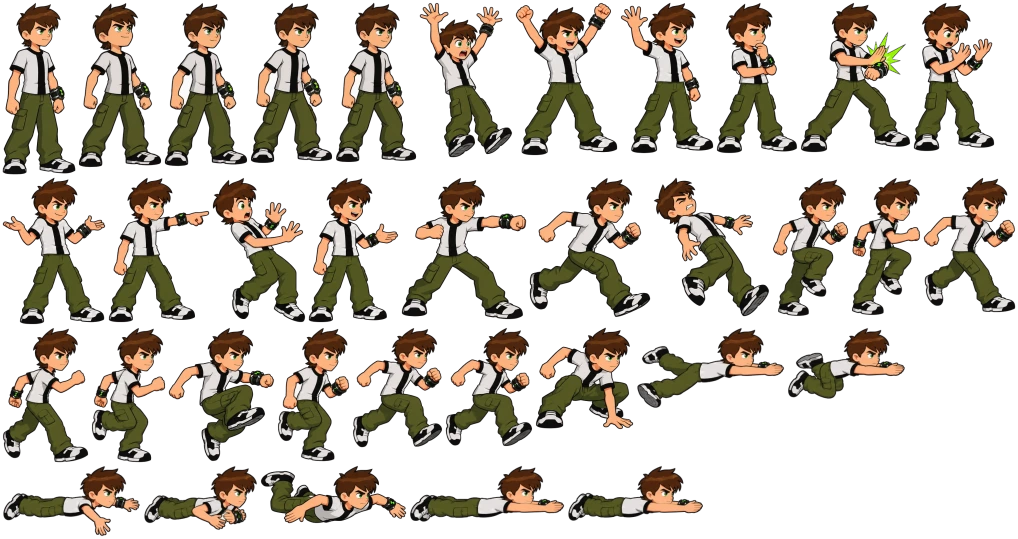
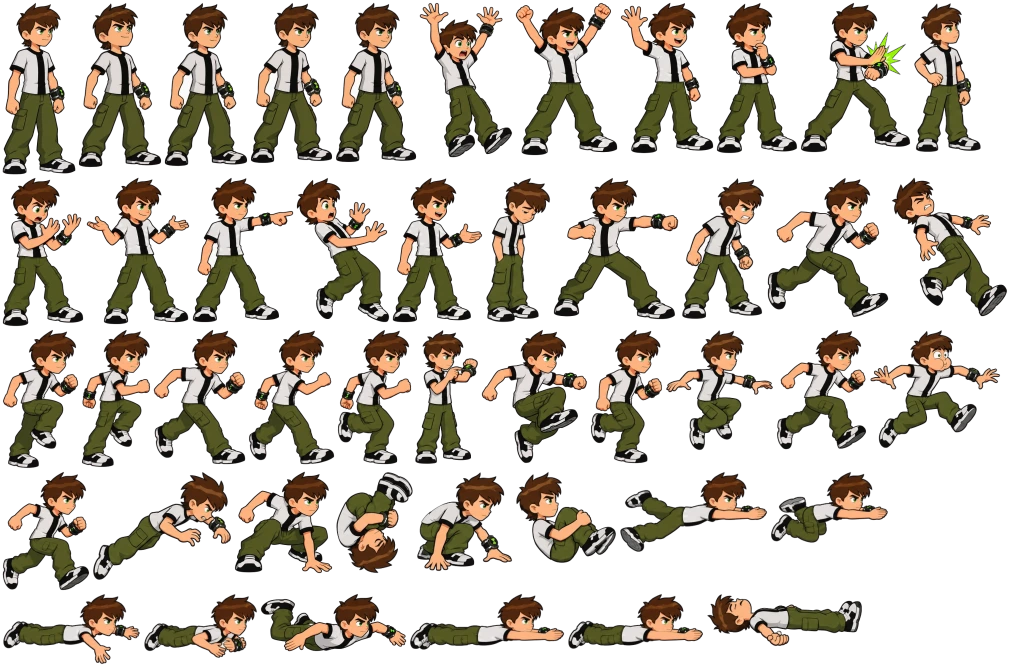
Ben's last sheet: the dodge roll, knocked flat, raising the Omnitrix, treading water, out of air, angry, sad, listening
Claude-Session: https://claude.ai/code/session_013Hp8tSqP8vgSn4FCMe6iiY

diff --git a/src/scenes/preload/cartoon/cutout/benFrames.ts b/src/scenes/preload/cartoon/cutout/benFrames.ts
@@ -7,44 +7,55 @@ export const BEN_FRAMES: CutoutMeta = {
   texel: 5,
   scale: 18.5,
   headScale: 1,
-  width: 1018,
-  height: 539,
+  width: 1010,
+  height: 667,
   joints: {},
   frames: {
+    "body:angry": {"x": 681, "y": 177, "w": 84, "h": 143, "px": 39.87, "py": 141.24},
     "body:cheer": {"x": 515, "y": 2, "w": 103, "h": 154, "px": 50.1, "py": 152.34},
-    "body:dash": {"x": 529, "y": 177, "w": 122, "h": 141, "px": 59.8, "py": 139.41},
-    "body:dive": {"x": 260, "y": 465, "w": 147, "h": 59, "px": 60.0, "py": 33.37},
+    "body:dash": {"x": 767, "y": 177, "w": 122, "h": 141, "px": 59.8, "py": 139.41},
+    "body:defeat": {"x": 706, "y": 593, "w": 157, "h": 54, "px": 89.73, "py": 52.7},
+    "body:dive": {"x": 260, "y": 593, "w": 147, "h": 59, "px": 60.0, "py": 33.37},
+    "body:drown": {"x": 869, "y": 329, "w": 132, "h": 120, "px": 55.01, "py": 118.48},
     "body:fall": {"x": 419, "y": 2, "w": 94, "h": 156, "px": 41.64, "py": 154.49},
-    "body:hands": {"x": 913, "y": 2, "w": 82, "h": 150, "px": 33.11, "py": 148.34},
-    "body:hurt": {"x": 653, "y": 177, "w": 117, "h": 140, "px": 51.54, "py": 138.8},
+    "body:hands": {"x": 2, "y": 177, "w": 82, "h": 150, "px": 33.11, "py": 148.34},
+    "body:hurt": {"x": 891, "y": 177, "w": 117, "h": 140, "px": 51.54, "py": 138.8},
     "body:idle0": {"x": 250, "y": 2, "w": 83, "h": 162, "px": 38.82, "py": 160.77},
     "body:idle1": {"x": 164, "y": 2, "w": 84, "h": 165, "px": 39.11, "py": 163.73},
     "body:idle2": {"x": 78, "y": 2, "w": 84, "h": 166, "px": 39.91, "py": 164.38},
     "body:idle3": {"x": 335, "y": 2, "w": 82, "h": 161, "px": 37.66, "py": 160.12},
-    "body:jump": {"x": 168, "y": 327, "w": 107, "h": 135, "px": 51.29, "py": 133.26},
-    "body:land": {"x": 535, "y": 327, "w": 99, "h": 103, "px": 48.32, "py": 101.56},
-    "body:point": {"x": 108, "y": 177, "w": 102, "h": 146, "px": 38.45, "py": 144.34},
-    "body:punch": {"x": 401, "y": 177, "w": 126, "h": 143, "px": 58.83, "py": 142.18},
-    "body:run0": {"x": 923, "y": 177, "w": 93, "h": 136, "px": 45.5, "py": 134.27},
-    "body:run1": {"x": 277, "y": 327, "w": 73, "h": 135, "px": 31.32, "py": 133.62},
-    "body:run2": {"x": 851, "y": 177, "w": 70, "h": 139, "px": 29.23, "py": 137.19},
-    "body:run3": {"x": 352, "y": 327, "w": 91, "h": 121, "px": 43.5, "py": 127.0},
-    "body:run4": {"x": 2, "y": 327, "w": 87, "h": 136, "px": 40.14, "py": 134.27},
-    "body:run5": {"x": 91, "y": 327, "w": 75, "h": 136, "px": 31.07, "py": 134.27},
-    "body:run6": {"x": 772, "y": 177, "w": 77, "h": 140, "px": 33.57, "py": 138.81},
-    "body:run7": {"x": 445, "y": 327, "w": 88, "h": 120, "px": 41.65, "py": 126.03},
-    "body:shrug": {"x": 2, "y": 177, "w": 104, "h": 148, "px": 52.83, "py": 146.49},
+    "body:jump": {"x": 481, "y": 329, "w": 107, "h": 135, "px": 51.29, "py": 133.26},
+    "body:land": {"x": 234, "y": 471, "w": 99, "h": 103, "px": 48.32, "py": 101.56},
+    "body:listen": {"x": 913, "y": 2, "w": 69, "h": 151, "px": 31.96, "py": 149.68},
+    "body:point": {"x": 192, "y": 177, "w": 102, "h": 146, "px": 38.45, "py": 144.34},
+    "body:punch": {"x": 553, "y": 177, "w": 126, "h": 143, "px": 58.83, "py": 142.18},
+    "body:roll0": {"x": 92, "y": 471, "w": 140, "h": 110, "px": 54.96, "py": 108.78},
+    "body:roll1": {"x": 335, "y": 471, "w": 79, "h": 103, "px": 28.57, "py": 101.19},
+    "body:roll2": {"x": 515, "y": 471, "w": 102, "h": 93, "px": 45.64, "py": 91.07},
+    "body:roll3": {"x": 416, "y": 471, "w": 97, "h": 101, "px": 32.31, "py": 99.5},
+    "body:run0": {"x": 153, "y": 329, "w": 93, "h": 136, "px": 45.5, "py": 134.27},
+    "body:run1": {"x": 590, "y": 329, "w": 73, "h": 135, "px": 31.32, "py": 133.62},
+    "body:run2": {"x": 81, "y": 329, "w": 70, "h": 139, "px": 29.23, "py": 137.19},
+    "body:run3": {"x": 776, "y": 329, "w": 91, "h": 121, "px": 43.5, "py": 127.0},
+    "body:run4": {"x": 248, "y": 329, "w": 87, "h": 136, "px": 40.14, "py": 134.27},
+    "body:run5": {"x": 337, "y": 329, "w": 75, "h": 136, "px": 31.07, "py": 134.27},
+    "body:run6": {"x": 2, "y": 329, "w": 77, "h": 140, "px": 33.57, "py": 138.81},
+    "body:run7": {"x": 2, "y": 471, "w": 88, "h": 120, "px": 41.65, "py": 126.03},
+    "body:sad": {"x": 485, "y": 177, "w": 66, "h": 146, "px": 24.29, "py": 144.19},
+    "body:shrug": {"x": 86, "y": 177, "w": 104, "h": 148, "px": 52.83, "py": 146.49},
     "body:slam": {"x": 800, "y": 2, "w": 111, "h": 151, "px": 54.3, "py": 150.18},
     "body:stand": {"x": 2, "y": 2, "w": 74, "h": 173, "px": 33.2, "py": 171.89},
-    "body:surprise": {"x": 212, "y": 177, "w": 94, "h": 146, "px": 43.9, "py": 144.95},
-    "body:swim0": {"x": 409, "y": 465, "w": 156, "h": 58, "px": 69.2, "py": 41.17},
-    "body:swim1": {"x": 2, "y": 465, "w": 139, "h": 72, "px": 58.47, "py": 39.88},
-    "body:swim2": {"x": 143, "y": 465, "w": 115, "h": 66, "px": 56.44, "py": 41.21},
-    "body:swim3": {"x": 787, "y": 327, "w": 119, "h": 73, "px": 42.43, "py": 42.7},
-    "body:swim4": {"x": 636, "y": 327, "w": 149, "h": 82, "px": 63.76, "py": 43.01},
-    "body:swim5": {"x": 567, "y": 465, "w": 137, "h": 57, "px": 55.14, "py": 40.44},
-    "body:talk": {"x": 308, "y": 177, "w": 91, "h": 146, "px": 35.97, "py": 145.26},
+    "body:surprise": {"x": 296, "y": 177, "w": 94, "h": 146, "px": 43.9, "py": 144.95},
+    "body:swim0": {"x": 409, "y": 593, "w": 156, "h": 58, "px": 69.2, "py": 41.17},
+    "body:swim1": {"x": 2, "y": 593, "w": 139, "h": 72, "px": 58.47, "py": 39.88},
+    "body:swim2": {"x": 143, "y": 593, "w": 115, "h": 66, "px": 56.44, "py": 41.21},
+    "body:swim3": {"x": 770, "y": 471, "w": 119, "h": 73, "px": 42.43, "py": 42.7},
+    "body:swim4": {"x": 619, "y": 471, "w": 149, "h": 82, "px": 63.76, "py": 43.01},
+    "body:swim5": {"x": 567, "y": 593, "w": 137, "h": 57, "px": 55.14, "py": 40.44},
+    "body:talk": {"x": 392, "y": 177, "w": 91, "h": 146, "px": 35.97, "py": 145.26},
     "body:think": {"x": 716, "y": 2, "w": 82, "h": 152, "px": 36.38, "py": 150.8},
+    "body:tread": {"x": 665, "y": 329, "w": 109, "h": 122, "px": 45.41, "py": 120.58},
+    "body:watch": {"x": 414, "y": 329, "w": 65, "h": 136, "px": 26.03, "py": 134.5},
     "body:wave": {"x": 620, "y": 2, "w": 94, "h": 152, "px": 49.27, "py": 151.11},
   },
   bends: {},

diff --git a/src/scenes/preload/cartoon/characters/ben.ts b/src/scenes/preload/cartoon/characters/ben.ts
@@ -2,7 +2,7 @@ import { BEN_CARTOON } from '../../../../config/cartoon/ben';
 import { BEN_STYLE, EYES, humanRig, keyframes, MOUTHS, type HumanDims } from '../humanoid';
 import { css, INK, type Paint } from '../paint';
 import { wave, type ClipDef, type PartSpec, type Pose, type RigDef, type RigInfo } from '../rig';
-import { frameRig, spinAboutMiddle, type FrameClip } from '../cutout/frameRig';
+import { frameRig, type FrameClip } from '../cutout/frameRig';
 import { BEN_FRAMES } from '../cutout/benFrames';
 import { cutoutImage } from '../cutout/cutout';
 import { cutHumanRig } from '../cutout/cutRig';
@@ -202,8 +202,8 @@ const bob = (amount: number, phase = 0) => (t: number, p: Pose) => p.move('body'
 
 /**
  * Which of his drawings each animation plays (docs/art-refs: the run and swim
- * cycles, the idle/run, action and story-pose sheets). The rare poses without
- * a drawing of their own borrow the nearest one.
+ * cycles, the idle/run, action, story-pose and last sheets). The rare poses without
+ * a drawing of their own borrow the nearest one (his calmer story walk plays the run, slower).
  */
 export const BEN_FRAME_CLIPS: Readonly<Record<string, FrameClip>> = {
   idle: { frames: ['idle0', 'idle1', 'idle2', 'idle3'], fps: 2.5, loop: true },
@@ -215,24 +215,25 @@ export const BEN_FRAME_CLIPS: Readonly<Record<string, FrameClip>> = {
   fall: { frames: ['fall'], ms: 700, loop: true, motion: bob(0.4) },
   land: { frames: ['land'], ms: 170, loop: false },
   hurt: { frames: ['hurt'], ms: 320, loop: false, motion: (t, p) => p.move('body', -1.2 * (1 - t), 0) },
-  defeat: { frames: ['hurt'], ms: 900, loop: true, motion: (_t, p, h) => spinAboutMiddle(p, -70, h) },
+  defeat: { frames: ['defeat'], ms: 900, loop: true },
   punch: { frames: ['punch'], ms: 220, loop: false, motion: (t, p) => p.move('body', Math.sin(Math.PI * Math.min(1, t * 2)) * 1.5, 0) },
-  roll: { frames: ['jump'], ms: 320, loop: true, motion: (t, p, h) => spinAboutMiddle(p, t * 360, h) },
-  watch: { frames: ['slam'], ms: 260, loop: false },
+  // The dodge roll lasts as long as the clip: the dive, the ball over and round, the crouch out of it.
+  roll: { frames: ['roll0', 'roll1', 'roll2', 'roll3'], ms: 320, loop: false },
+  watch: { frames: ['watch'], ms: 260, loop: false },
   slam: { frames: ['slam'], ms: 340, loop: false },
   // Breaststroke: glide, the arms sweep out and pull in, the legs bend and kick; the glide (first and last) holds twice as long.
   swim: { frames: ['swim0', 'swim1', 'swim2', 'swim3', 'swim4', 'swim5'], fps: 8, loop: true, motion: (t, p) => p.move('body', 0, SWIM_Y + wave(t, 0.25) * 0.5) },
-  tread: { frames: ['idle0'], ms: 900, loop: true, motion: bob(0.6) },
-  drown: { frames: ['hurt'], ms: 520, loop: true, motion: (t, p) => p.set('body', wave(t) * 6) },
+  tread: { frames: ['tread'], ms: 900, loop: true, motion: bob(0.6) },
+  drown: { frames: ['drown'], ms: 520, loop: true, motion: (t, p) => p.set('body', wave(t) * 4) },
   talk: { frames: ['talk'], ms: 1300, loop: true, motion: bob(0.25) },
-  listen: { frames: ['idle0', 'idle1', 'idle2', 'idle3'], fps: 2, loop: true },
+  listen: { frames: ['listen'], ms: 1800, loop: true, motion: bob(0.2) },
   point: { frames: ['point'], ms: 1800, loop: true, motion: bob(0.2) },
   shrug: { frames: ['shrug'], ms: 1800, loop: true, motion: bob(0.2) },
   surprise: { frames: ['surprise'], ms: 1800, loop: true },
   cheer: { frames: ['cheer'], ms: 700, loop: true, motion: (t, p) => p.move('body', 0, -Math.abs(wave(t)) * 1.2) },
   think: { frames: ['think'], ms: 1800, loop: true, motion: bob(0.2) },
-  angry: { frames: ['stand'], ms: 1800, loop: true },
-  sad: { frames: ['idle0'], ms: 1800, loop: true },
+  angry: { frames: ['angry'], ms: 1800, loop: true, motion: bob(0.2) },
+  sad: { frames: ['sad'], ms: 1800, loop: true },
   lookHands: { frames: ['hands'], ms: 1800, loop: true, motion: bob(0.2) },
   wave: { frames: ['wave'], ms: 700, loop: true, motion: (t, p) => p.set('body', wave(t) * 1.5) },
 };

diff --git a/scripts/cutout/ben_frames.py b/scripts/cutout/ben_frames.py
@@ -1,7 +1,9 @@
 # Ben frame by frame: every pose is one of his generated drawings (see frames.py).
 # Sheets: his model sheet (the three-quarter view, for scale and standing), the
 # idle/run sheet (idle), the action sheet (jump, fall, land, punch, hurt, the
-# slam), the run cycle (8 frames), the swim cycle (6) and the story poses (8).
+# slam), the run cycle (8 frames), the swim cycle (6), the story poses (8) and a last
+# sheet (the dodge roll in 4, down, raising the Omnitrix, treading water, out of air,
+# angry, sad, listening).
 
 ID = 'ben'
 TEXEL = 5
@@ -15,6 +17,7 @@ SHEETS = {
     'run': ('docs/art-refs/ben-run-cycle.webp', 235),
     'swim': ('docs/art-refs/ben-swim-cycle.webp', 235),
     'story': ('docs/art-refs/ben-story-poses.webp', 235),
+    'last': ('docs/art-refs/ben-last-poses.webp', 235),
 }
 # The model sheet's three-quarter view sets the scale for every sheet.
 REF = ('model', 1)
@@ -31,6 +34,9 @@ FRAMES = {
     'swim0': ('swim', 0), 'swim1': ('swim', 1), 'swim2': ('swim', 2), 'swim3': ('swim', 3), 'swim4': ('swim', 4), 'swim5': ('swim', 5),
     'talk': ('story', 0), 'point': ('story', 1), 'shrug': ('story', 2), 'surprise': ('story', 3),
     'cheer': ('story', 4), 'think': ('story', 5), 'wave': ('story', 6), 'hands': ('story', 7),
+    'roll0': ('last', 0), 'roll1': ('last', 1), 'roll2': ('last', 2), 'roll3': ('last', 3),
+    'defeat': ('last', 4), 'watch': ('last', 5), 'tread': ('last', 6), 'drown': ('last', 7),
+    'angry': ('last', 8), 'sad': ('last', 9), 'listen': ('last', 10),
 }
 CENTRED = {'swim0', 'swim1', 'swim2', 'swim3', 'swim4', 'swim5', 'dive'}
 # The airborne run frames float this far (game px) over the floor.

diff --git a/docs/ch7-wip.md b/docs/ch7-wip.md
@@ -16,7 +16,7 @@ Uncommitted at handoff time: nothing (the Deepmaw rig and manifest were committe
 
 ## Still to do, in order
 
-0. **Frame by frame, from the owner's animation sheets** (DECISIONS.md, "Characters drawn frame by frame"). Every pose is one of the owner's ChatGPT drawings played as it is; nothing is cut or bent (the owner rejected the cut-out puppets below: "feels like pieces"). **Done: Ben** (`scripts/cutout/ben_frames.py`, clips `BEN_FRAME_CLIPS` in `characters/ben.ts`: idle, run, jump, fall, land, punch, hurt, roll, defeat, watch, slam, swim, tread, drown and eight story poses). **Started: Gwen, Max, Kevin** (`scripts/cutout/<id>_frames.py`, `<ID>_FRAME_CLIPS`): their cycles (Gwen's and Kevin's 8-frame runs, Max's 8-frame walk; Gwen's run is the owner's second run sheet, whose legs swap and body doesn't twist). **Gwen is done** except swimming and looking at her hands: her action and story-pose sheets are in (`gwen-action-poses.webp`, `gwen-story-poses.webp`), 16 of her 23 animations play her own drawings. Max walks from the owner's second walk sheet (his arms swap; the stride measures 3.5 px a drawing, within 4% of the old one, so `GAIT.max` stays). His action poses are in (`max-action-poses.webp`): the console, the blaster (Chapter 7's `spray`; the bolt leaves the drawn muzzle, `CH7_LATE.max.handHeight`/`muzzleAhead`), the badge, the salute, talk, cheer and surprise. **Max is done** too: his story poses are in (`max-story-poses.webp`: point, shrug, think, wave, worried, laugh, stern, hurt), 17 of his 27 animations play his own drawings (he never jumps or swims in a story). Kevin runs from the owner's second run sheet (nearer his model sheet's proportions; 5 px a drawing, `GAIT.kevin` 80); his action poses are in (`kevin-action-poses.webp`: smirk, absorb, wind-up, throw, lunge, laugh, hurt, jump; the purple is in the drawings). His story-pose sheet is optional (he has few lines); the aliens come first. **Ripjaws is done** (`scripts/cutout/ripjaws_frames.py`, five sheets: model, swim, hop, action, water; `RIPJAWS_FRAME_CLIPS`): 18 of his 21 animations play his own drawings; the side-on swimming drawings hang from the middle of his body (`SWIM_Y`), the hop's two flights float at 70% of the drawn height. `frames.py` takes `GAP` and `MIN_AREA` per sheet for drawings drawn small or close together. **DEEPMAW is done** (`scripts/cutout/deepmaw_frames.py`, four sheets: model, swim, water, dry; `DEEPMAW_FRAME_CLIPS`): every clip of the fight plays one of his drawings; each drawing marks his lure's bulb and his eye (`MARKERS` in the spec, `markers` in the meta: a frame rig's extra bones), so the weak point and its light follow the drawn bulb and his portrait centres on the drawn eye. Every drawing hangs from his belly's middle, 24 px over the rig's origin as the fight expects. Record a boss with `WAIT='window.__level.arena.boss'` in `capture.cjs`. **The sentry (`warden`) plays the owner's drone** (`scripts/cutout/warden_frames.py`, `drone-model-sheet.webp`): the side view on its beat and the red lens locked on and firing; the sheet's patrol cone and stun bolt are left out because the game draws its own (the cone sweeps with the aim). **The fishbowl grunt plays the owner's drawings** (`scripts/cutout/grunt_frames.py`, `grunt-model-sheet.webp`): standing guard, the wind-up, the throw (empty-handed: the game flies the harpoon) and the bowl smashed, flopping. His walk is his 8-drawing trudge (`grunt-walk-cycle.webp`, 7 drawings a second at his patrol speed, slower as he wades, so his boots stay planted); his bowl-broken moves (the bowl smashed in the water: he fights on) are his own drawings (`grunt-bare-poses.webp`: guard, wind-up, throw and a 4-drawing trudge). **The zapper eel plays the owner's drawings** (`scripts/cutout/eel_frames.py`, `eel-model-sheet.webp`): coiled to charge, the zap and flopping both ways on a drained floor; its swim is its 8-drawing ripple (`eel-swim-cycle.webp`). **The jelly mine plays the owner's pulse** (`scripts/cutout/jelly_frames.py`, `jelly-pulse-cycle.webp`): 8 drawings hung from its core. **The gnasher swarm is seven of the owner's gnashers** (`scripts/cutout/gnasher_frames.py`, `gnasher-model-sheet.webp`, one fish): each plays its swim, chattering jaws (the tell), the dart or the flop at its own phase, and the game makes the school's shapes (the circle, the ball, the line, the heap) from them, as the painted school did. **Heatblast plays the owner's drawings** (`scripts/cutout/heatblast_frames.py`: model sheet, 8-drawing run, action poses, water poses): all 13 of his moves, with his water sheet (a doggy-paddle, treading water, sputtering); the game draws all his fire and steam. **Four Arms plays the owner's drawings** (`scripts/cutout/fourarms_frames.py`, five sheets: model, run, fighting poses, movement poses, the carry run and the sea floor): all 21 of his moves; his idle is the movement sheet's fighting stance, and the game draws his shockwaves, dust and whatever he carries. **XLR8 plays the owner's drawings** (`scripts/cutout/xlr8_frames.py`, four sheets: model, run, action poses, a last sheet of hurt, down, water and story poses): all 18 of his moves; the game draws his speed streaks. **Wildmutt plays the owner's drawings** (`scripts/cutout/wildmutt_frames.py`, four sheets: model, gallop, action poses, a last sheet of wall climbing, down, water and story poses): all 20 of his moves. On a wall the drawings are already upright with his paws to the wall, so his clip only steps them back to where the wall is. **Stinkfly plays the owner's drawings** (`scripts/cutout/stinkfly_frames.py`, four sheets: model, wingbeat and scuttle, action poses, water and story poses): all 16 of his moves; ChatGPT drew him as the show does (the Omnitrix on his black head, four eyestalks), and the game draws his slime and stink. **Upgrade plays the owner's drawings** (`scripts/cutout/upgrade_frames.py`, four sheets: model, run, action poses, melt, water and story poses): 18 of his 19 moves (thinking borrows the dazed hand-on-head drawing); the first model sheet came back with the later white chest, so it was redrawn black all over as in the 2005 show, and the game draws his eye beam. **Diamondhead plays the owner's drawings** (`scripts/cutout/diamondhead_frames.py`, four sheets: model, run (the owner's second copy), action poses, water and story poses): all 22 of his moves; his crystal shield is drawn in his shield poses (level, up, down), and the game draws his shards and the ground spikes; too heavy to swim, he wades along the sea floor. **Ghostfreak plays the owner's drawings** (`scripts/cutout/ghostfreak_frames.py`, four sheets: model, hovering and drifting cycles, action poses (the larger of two copies), surprise, thinking and thrashing): all 19 of his moves; no legs, so the drifting drawings hang from the Omnitrix at the height he hovers and his tail streams out behind, and his chest tentacles are in the lash drawings; he swims with the drift. **Grey Matter plays the owner's drawings** (`scripts/cutout/greymatter_frames.py`, four sheets: model, run (the first of two near-identical copies), action poses, water and story poses): all 19 of his moves; his eyes change shape with every expression, so each sheet's scale was set by hand from his head and his height. With him, every one of the nine older aliens plays the owner's drawings in Chapter 7. The sheet's sparks round the coil are left out: the game crackles its own. In Chapter 7 Gwen and Max strike their talk drawing while their line plays (`plumber/story/talkers.ts`), and a family actor in an HD chapter can take any pose its rig has, even one its pixel sheet lacks (`FamilyActor.show`) and the model sheets' standing drawings (Max's side view at the console, Kevin's absorbing pose); every other pose borrows the standing drawing until these arrive (the prompts are in the "Animation Sheet Prompts" artifact, see PROGRESS): an 8-pose action sheet each (Gwen: stand, jump, fall, land, hurt, cast spell with a pink-purple ball, arms folded, talking; Max: stand, at a console, firing a blaster one-handed, holding up his badge, salute, talking, cheering, surprised; Kevin: smirk, absorbing (hands glowing purple), wind-up, throw, lunge, laughing, hurt, jumping) and a story-pose sheet for Gwen and Max (talk, point, shrug, surprised, cheer, think, wave, worried), each made from the character's cycle sheet so the proportions match (DECISIONS.md, "A size jump between sheets"). When they land: add them to `SHEETS`/`FRAMES` (scale them like the cycle sheet: `frames.py` prints the head and hair ratios), give each clip its drawing, and drop the borrowed ones. Their cycles play at the rate their speed needs (`config/cartoon/gait.ts`): move them near those speeds in the set pieces.
+0. **Frame by frame, from the owner's animation sheets** (DECISIONS.md, "Characters drawn frame by frame"). Every pose is one of the owner's ChatGPT drawings played as it is; nothing is cut or bent (the owner rejected the cut-out puppets below: "feels like pieces"). **Done: Ben** (`scripts/cutout/ben_frames.py`, clips `BEN_FRAME_CLIPS` in `characters/ben.ts`: idle, run, jump, fall, land, punch, hurt, roll, defeat, watch, slam, swim, tread, drown and eight story poses). **Started: Gwen, Max, Kevin** (`scripts/cutout/<id>_frames.py`, `<ID>_FRAME_CLIPS`): their cycles (Gwen's and Kevin's 8-frame runs, Max's 8-frame walk; Gwen's run is the owner's second run sheet, whose legs swap and body doesn't twist). **Gwen is done** except swimming and looking at her hands: her action and story-pose sheets are in (`gwen-action-poses.webp`, `gwen-story-poses.webp`), 16 of her 23 animations play her own drawings. Max walks from the owner's second walk sheet (his arms swap; the stride measures 3.5 px a drawing, within 4% of the old one, so `GAIT.max` stays). His action poses are in (`max-action-poses.webp`): the console, the blaster (Chapter 7's `spray`; the bolt leaves the drawn muzzle, `CH7_LATE.max.handHeight`/`muzzleAhead`), the badge, the salute, talk, cheer and surprise. **Max is done** too: his story poses are in (`max-story-poses.webp`: point, shrug, think, wave, worried, laugh, stern, hurt), 17 of his 27 animations play his own drawings (he never jumps or swims in a story). Kevin runs from the owner's second run sheet (nearer his model sheet's proportions; 5 px a drawing, `GAIT.kevin` 80); his action poses are in (`kevin-action-poses.webp`: smirk, absorb, wind-up, throw, lunge, laugh, hurt, jump; the purple is in the drawings). His story-pose sheet is optional (he has few lines); the aliens come first. **Ripjaws is done** (`scripts/cutout/ripjaws_frames.py`, five sheets: model, swim, hop, action, water; `RIPJAWS_FRAME_CLIPS`): 18 of his 21 animations play his own drawings; the side-on swimming drawings hang from the middle of his body (`SWIM_Y`), the hop's two flights float at 70% of the drawn height. `frames.py` takes `GAP` and `MIN_AREA` per sheet for drawings drawn small or close together. **DEEPMAW is done** (`scripts/cutout/deepmaw_frames.py`, four sheets: model, swim, water, dry; `DEEPMAW_FRAME_CLIPS`): every clip of the fight plays one of his drawings; each drawing marks his lure's bulb and his eye (`MARKERS` in the spec, `markers` in the meta: a frame rig's extra bones), so the weak point and its light follow the drawn bulb and his portrait centres on the drawn eye. Every drawing hangs from his belly's middle, 24 px over the rig's origin as the fight expects. Record a boss with `WAIT='window.__level.arena.boss'` in `capture.cjs`. **The sentry (`warden`) plays the owner's drone** (`scripts/cutout/warden_frames.py`, `drone-model-sheet.webp`): the side view on its beat and the red lens locked on and firing; the sheet's patrol cone and stun bolt are left out because the game draws its own (the cone sweeps with the aim). **The fishbowl grunt plays the owner's drawings** (`scripts/cutout/grunt_frames.py`, `grunt-model-sheet.webp`): standing guard, the wind-up, the throw (empty-handed: the game flies the harpoon) and the bowl smashed, flopping. His walk is his 8-drawing trudge (`grunt-walk-cycle.webp`, 7 drawings a second at his patrol speed, slower as he wades, so his boots stay planted); his bowl-broken moves (the bowl smashed in the water: he fights on) are his own drawings (`grunt-bare-poses.webp`: guard, wind-up, throw and a 4-drawing trudge). **The zapper eel plays the owner's drawings** (`scripts/cutout/eel_frames.py`, `eel-model-sheet.webp`): coiled to charge, the zap and flopping both ways on a drained floor; its swim is its 8-drawing ripple (`eel-swim-cycle.webp`). **The jelly mine plays the owner's pulse** (`scripts/cutout/jelly_frames.py`, `jelly-pulse-cycle.webp`): 8 drawings hung from its core. **The gnasher swarm is seven of the owner's gnashers** (`scripts/cutout/gnasher_frames.py`, `gnasher-model-sheet.webp`, one fish): each plays its swim, chattering jaws (the tell), the dart or the flop at its own phase, and the game makes the school's shapes (the circle, the ball, the line, the heap) from them, as the painted school did. **Heatblast plays the owner's drawings** (`scripts/cutout/heatblast_frames.py`: model sheet, 8-drawing run, action poses, water poses): all 13 of his moves, with his water sheet (a doggy-paddle, treading water, sputtering); the game draws all his fire and steam. **Four Arms plays the owner's drawings** (`scripts/cutout/fourarms_frames.py`, five sheets: model, run, fighting poses, movement poses, the carry run and the sea floor): all 21 of his moves; his idle is the movement sheet's fighting stance, and the game draws his shockwaves, dust and whatever he carries. **XLR8 plays the owner's drawings** (`scripts/cutout/xlr8_frames.py`, four sheets: model, run, action poses, a last sheet of hurt, down, water and story poses): all 18 of his moves; the game draws his speed streaks. **Wildmutt plays the owner's drawings** (`scripts/cutout/wildmutt_frames.py`, four sheets: model, gallop, action poses, a last sheet of wall climbing, down, water and story poses): all 20 of his moves. On a wall the drawings are already upright with his paws to the wall, so his clip only steps them back to where the wall is. **Stinkfly plays the owner's drawings** (`scripts/cutout/stinkfly_frames.py`, four sheets: model, wingbeat and scuttle, action poses, water and story poses): all 16 of his moves; ChatGPT drew him as the show does (the Omnitrix on his black head, four eyestalks), and the game draws his slime and stink. **Upgrade plays the owner's drawings** (`scripts/cutout/upgrade_frames.py`, four sheets: model, run, action poses, melt, water and story poses): 18 of his 19 moves (thinking borrows the dazed hand-on-head drawing); the first model sheet came back with the later white chest, so it was redrawn black all over as in the 2005 show, and the game draws his eye beam. **Diamondhead plays the owner's drawings** (`scripts/cutout/diamondhead_frames.py`, four sheets: model, run (the owner's second copy), action poses, water and story poses): all 22 of his moves; his crystal shield is drawn in his shield poses (level, up, down), and the game draws his shards and the ground spikes; too heavy to swim, he wades along the sea floor. **Ghostfreak plays the owner's drawings** (`scripts/cutout/ghostfreak_frames.py`, four sheets: model, hovering and drifting cycles, action poses (the larger of two copies), surprise, thinking and thrashing): all 19 of his moves; no legs, so the drifting drawings hang from the Omnitrix at the height he hovers and his tail streams out behind, and his chest tentacles are in the lash drawings; he swims with the drift. **Grey Matter plays the owner's drawings** (`scripts/cutout/greymatter_frames.py`, four sheets: model, run (the first of two near-identical copies), action poses, water and story poses): all 19 of his moves; his eyes change shape with every expression, so each sheet's scale was set by hand from his head and his height. With him, every one of the nine older aliens plays the owner's drawings in Chapter 7. **Ben's last sheet is in** (`ben-last-poses.webp`): the dodge roll in four drawings (no longer the jump drawing spun round), knocked flat, raising the Omnitrix (every transform), treading water, out of air, angry, sad and listening: 25 of his 26 animations play his own drawings (only the calmer story walk borrows the run). The sheet's sparks round the coil are left out: the game crackles its own. In Chapter 7 Gwen and Max strike their talk drawing while their line plays (`plumber/story/talkers.ts`), and a family actor in an HD chapter can take any pose its rig has, even one its pixel sheet lacks (`FamilyActor.show`) and the model sheets' standing drawings (Max's side view at the console, Kevin's absorbing pose); every other pose borrows the standing drawing until these arrive (the prompts are in the "Animation Sheet Prompts" artifact, see PROGRESS): an 8-pose action sheet each (Gwen: stand, jump, fall, land, hurt, cast spell with a pink-purple ball, arms folded, talking; Max: stand, at a console, firing a blaster one-handed, holding up his badge, salute, talking, cheering, surprised; Kevin: smirk, absorbing (hands glowing purple), wind-up, throw, lunge, laughing, hurt, jumping) and a story-pose sheet for Gwen and Max (talk, point, shrug, surprised, cheer, think, wave, worried), each made from the character's cycle sheet so the proportions match (DECISIONS.md, "A size jump between sheets"). When they land: add them to `SHEETS`/`FRAMES` (scale them like the cycle sheet: `frames.py` prints the head and hair ratios), give each clip its drawing, and drop the borrowed ones. Their cycles play at the rate their speed needs (`config/cartoon/gait.ts`): move them near those speeds in the set pieces.
 
    How, per character:
    - Save each sheet as `docs/art-refs/<id>-<run-cycle|walk-cycle|action-poses|story-poses>.webp` (attached images arrive under the session's `images/` folder). Check it first: whole bodies, same size, signature details kept (Gwen's cat clip and cat shirt, Max's holster and flower shirt, Kevin's grey under-sleeves). A run cycle's legs should swap sides between frames 1-4 and 5-8 (look at which leg is drawn in front, and which arm); ChatGPT often repeats the first half instead, which still plays when both legs look alike. One bad frame can be replaced by holding its neighbour (Ben's fourth run frame). Compare the head's size with the model sheet's: the cycle sheets come out stockier (`SHEET_SCALE`).

diff --git a/docs/ART_COVERAGE.md b/docs/ART_COVERAGE.md
@@ -11,7 +11,7 @@ The prompts for every sheet still needed are in the Animation Sheet Prompts page
 
 | Character | Animations | Drawn | Stand-in | Waiting | Painted |
 |---|---|---|---|---|---|
-| BEN TENNYSON | 26 | 17 | 9 | 0 | 0 |
+| BEN TENNYSON | 26 | 25 | 1 | 0 | 0 |
 | GWEN TENNYSON | 23 | 16 | 3 | 4 | 0 |
 | GRANDPA MAX | 27 | 17 | 3 | 7 | 0 |
 | KEVIN LEVIN | 27 | 10 | 4 | 13 | 0 |
@@ -43,25 +43,25 @@ The prompts for every sheet still needed are in the Animation Sheet Prompts page
 | fall | arms up, legs pedalling | drawn | fall |
 | land | a knees-bent landing between falling and standing | drawn | land |
 | punch | a jab with the near arm and the far arm pulled back | drawn | punch |
-| roll | a tucked dodge roll, all the way round | stand-in | jump |
+| roll | a tucked dodge roll, all the way round | drawn | roll0, roll1, roll2, roll3 |
 | hurt | knocked back, face screwed up | drawn | hurt |
-| defeat | knocked flat (the level spins him away) | stand-in | hurt |
-| watch | the Omnitrix raised to his face (transforming, story beats) | stand-in | slam |
+| defeat | knocked flat (the level spins him away) | drawn | defeat |
+| watch | the Omnitrix raised to his face (transforming, story beats) | drawn | watch |
 | slam | the transform slam: hand raised over the watch | drawn | slam |
 | swim | breaststroke: glide, pull, frog kick | drawn | swim0, swim1, swim2, swim3, swim4, swim5 |
-| tread | treading water | stand-in | idle0 |
-| drown | out of air, thrashing | stand-in | hurt |
+| tread | treading water | drawn | tread |
+| drown | out of air, thrashing | drawn | drown |
 | talk | gesturing while he talks | drawn | talk |
 | point | pointing | drawn | point |
 | shrug | shrugging | drawn | shrug |
 | surprise | jumping back, eyes wide | drawn | surprise |
 | cheer | both fists up | drawn | cheer |
 | think | hand on chin | drawn | think |
-| angry | fists clenched | stand-in | stand |
-| sad | shoulders down | stand-in | idle0 |
+| angry | fists clenched | drawn | angry |
+| sad | shoulders down | drawn | sad |
 | lookHands | staring at his own hands (the transition) | drawn | hands |
 | wave | waving | drawn | wave |
-| listen | (story pose) | stand-in | idle0, idle1, idle2, idle3 |
+| listen | (story pose) | drawn | listen |
 
 ## GWEN TENNYSON (`gwen`)
 
